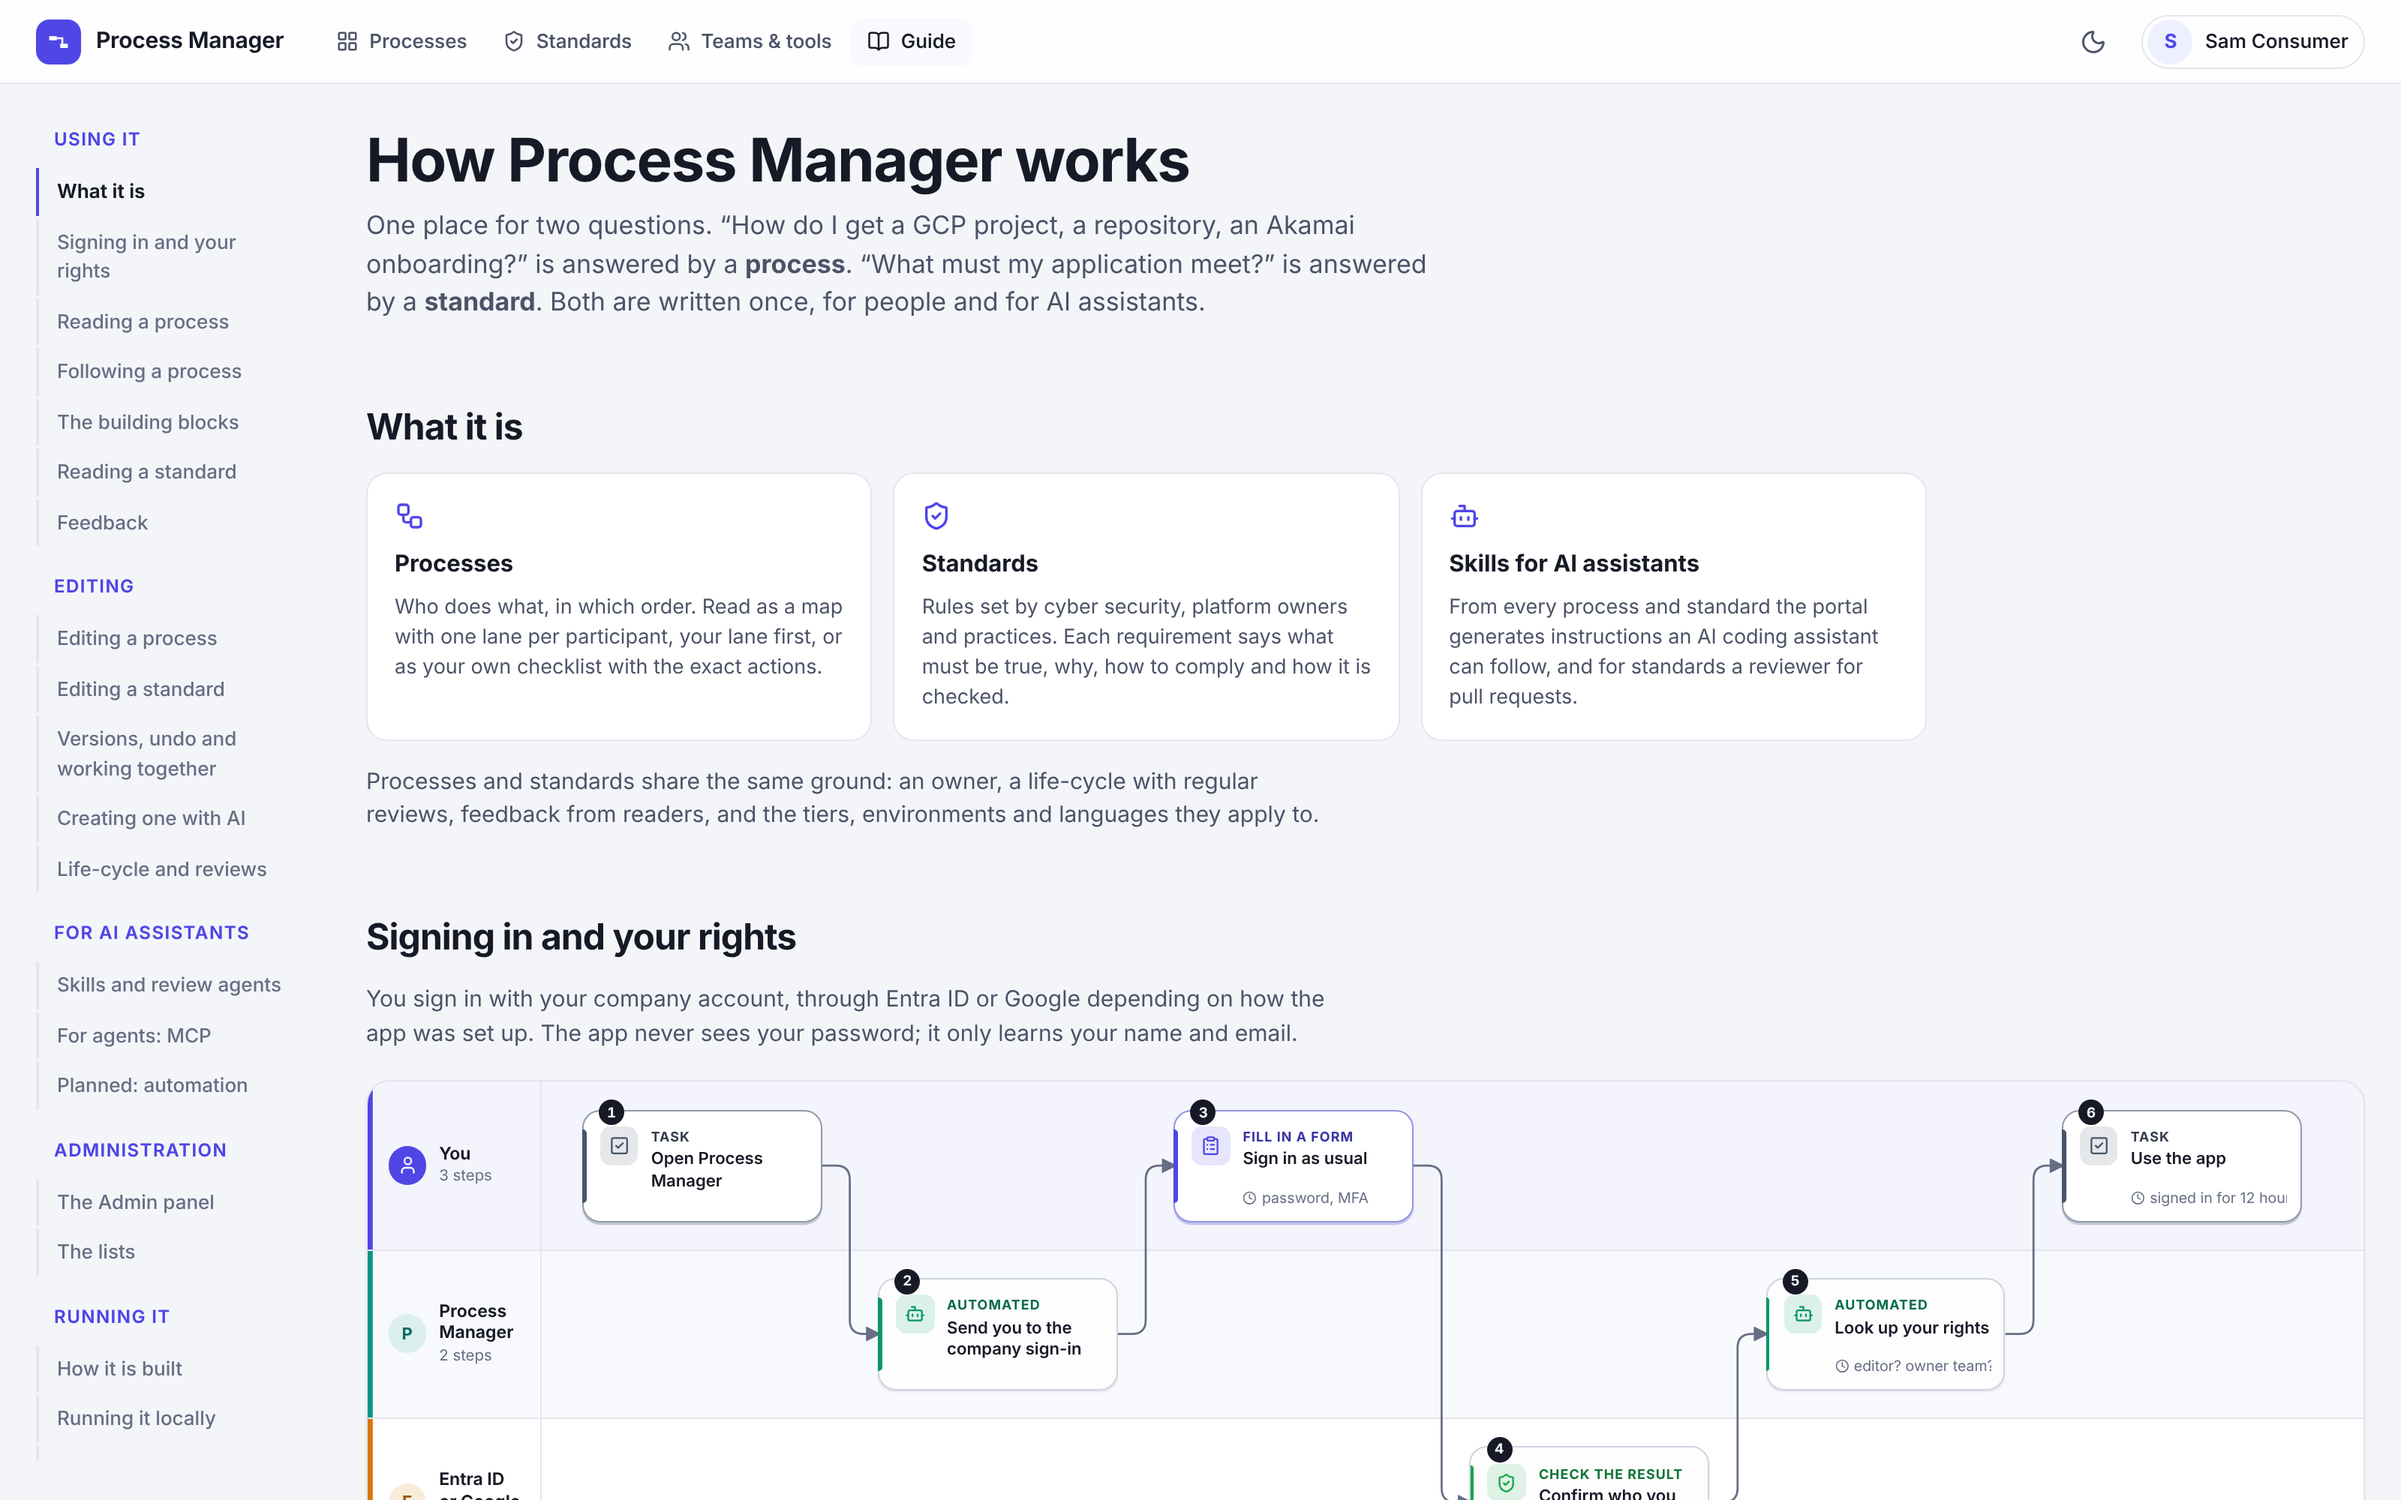
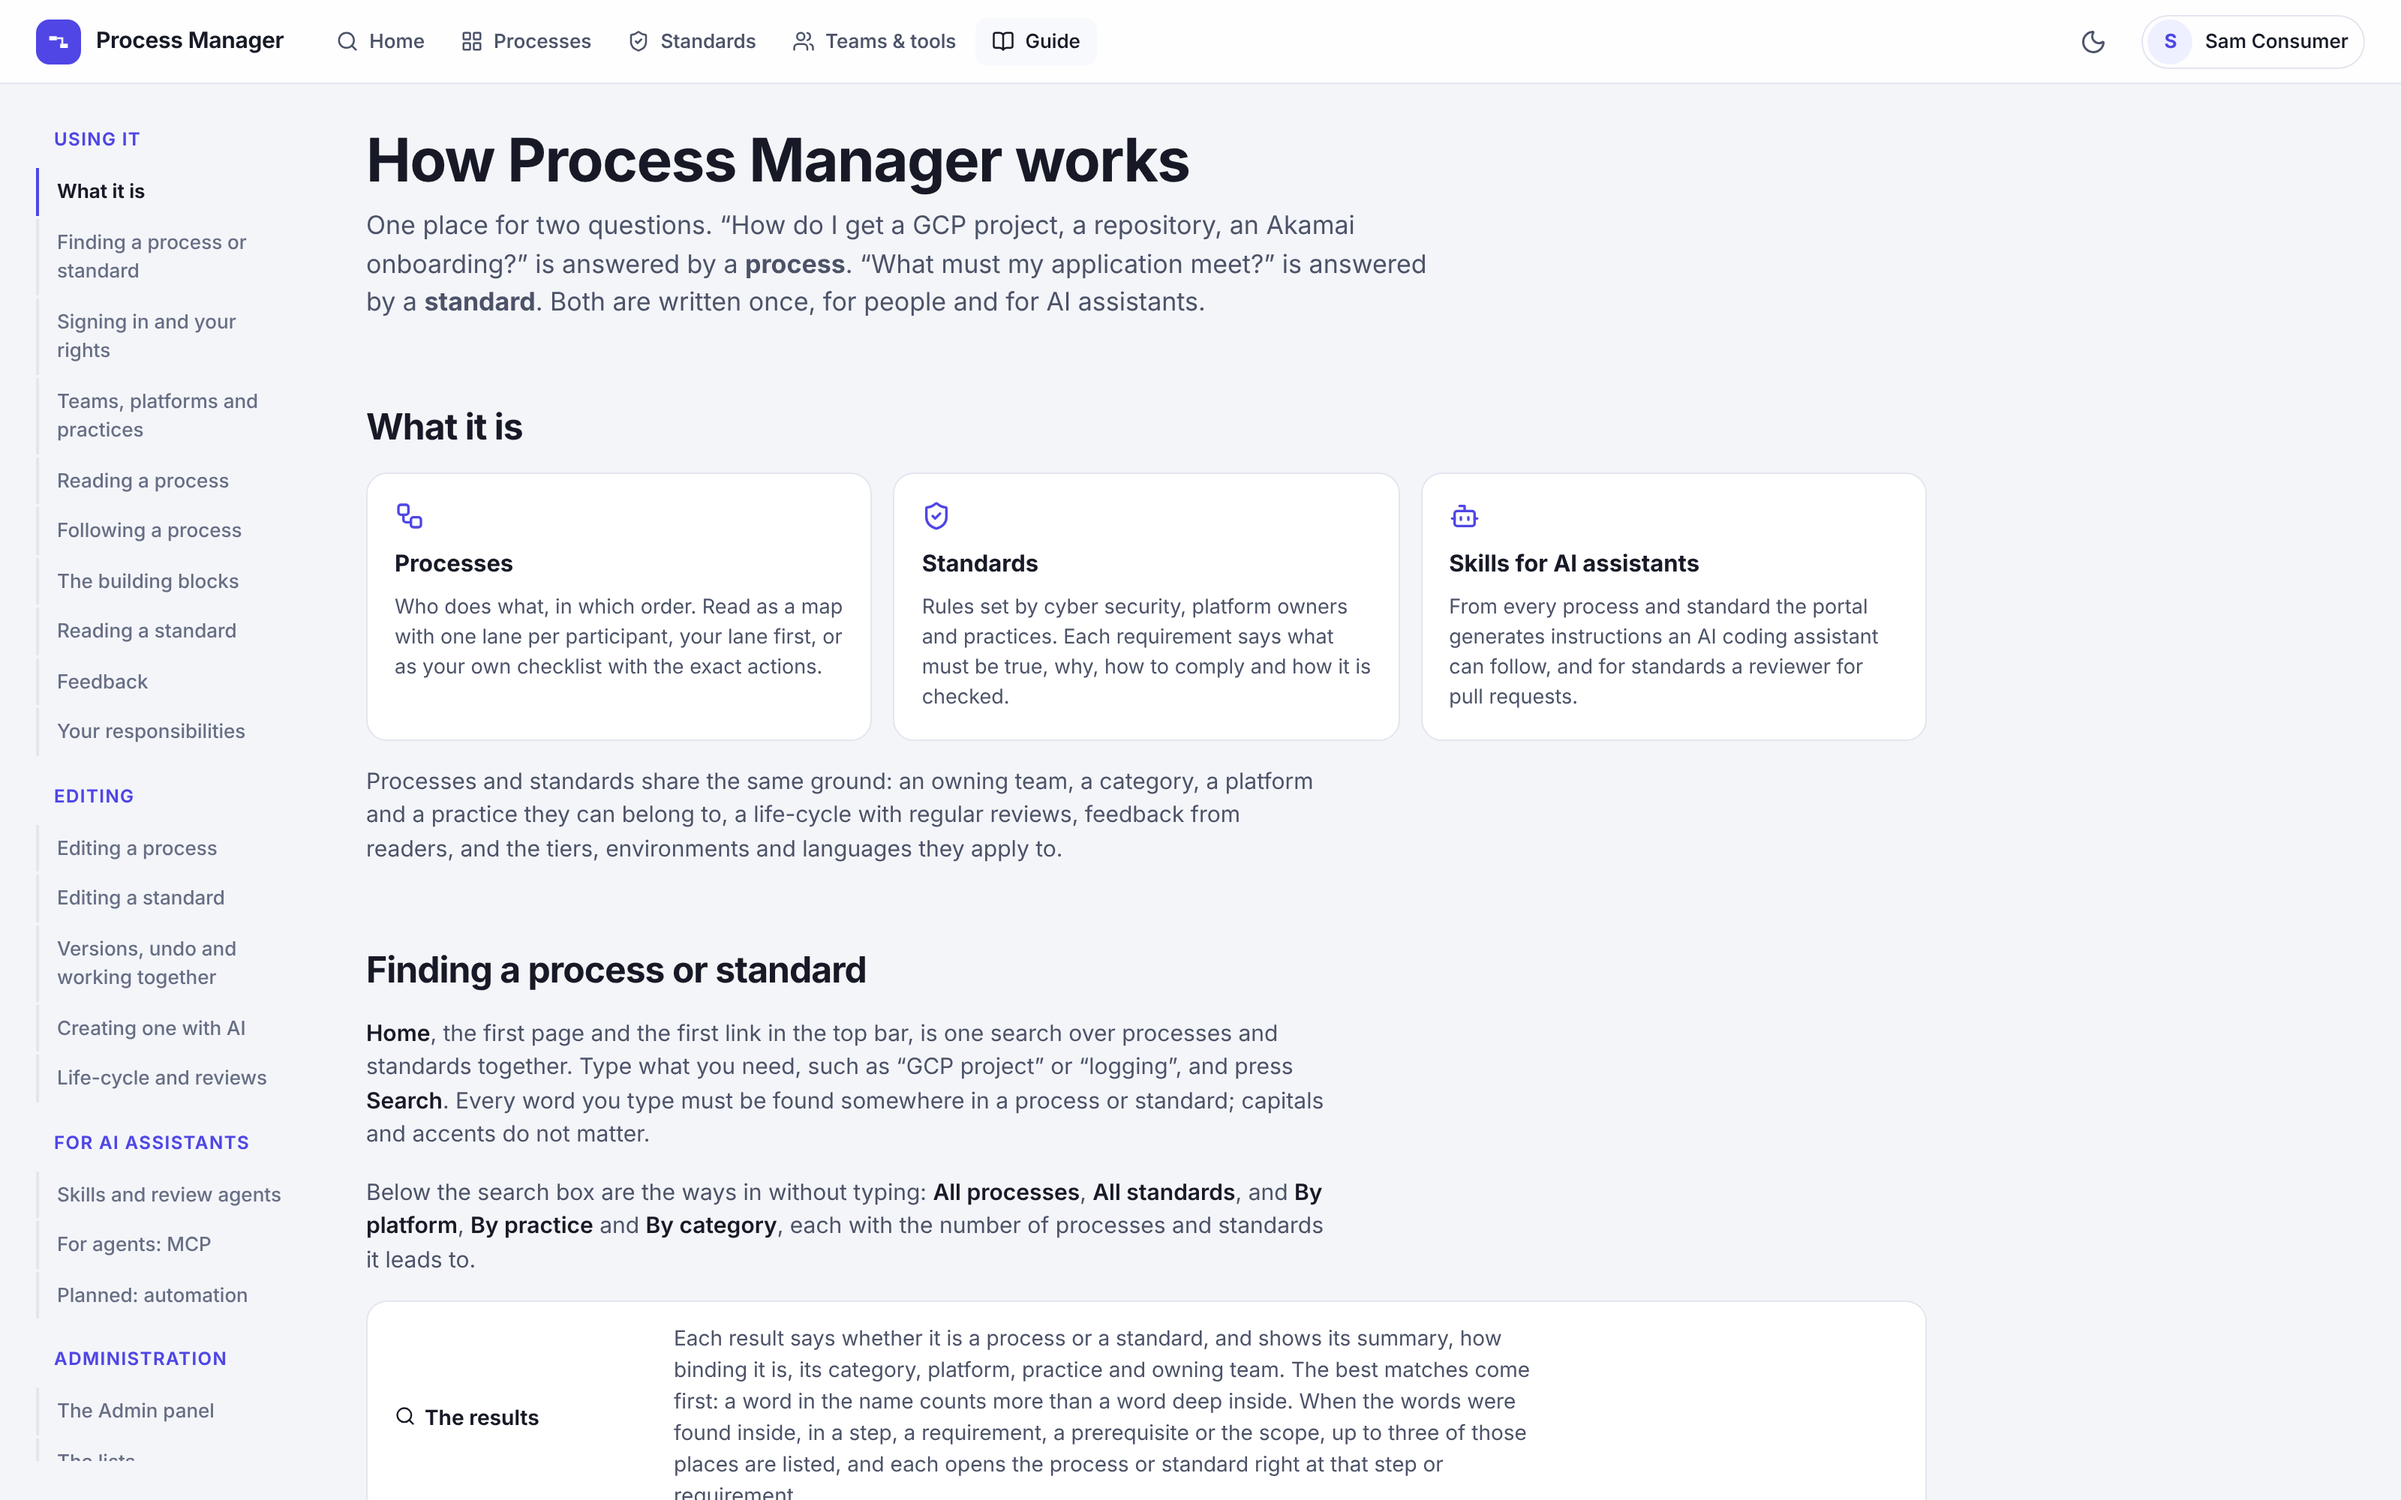
Search on the home page; categories, practices and platforms; platform and practice owners
Home is a search over processes and standards. The results page filters by
type, rigour, category, practice and platform, and its address holds the
whole search. The process library moved to #/processes.

The lists gain practices, platforms and categories, each managed on its own.
A team no longer has a kind. A process or standard has an owning team and
can belong to a category, a practice and a platform; a process says how
binding it is, a standard takes that from its requirements.

Platform owner and practice owner are new roles: an ordinary reader who
holds one may change, create and delete what belongs to that platform or
practice, and may move a document only between platforms or practices they
own. Standards editor always covers all standards. Everyone can see who the
members of a team, platform or practice are on Teams & tools; admins add and
remove them in Admin > Lists.

An older database is converted once at start: unit teams also become
platforms or practices, free-text categories become list entries, stored
versions are adjusted in place, and limited standards editors become
platform or practice owners.

Also: versions from before a deletion are only for admins and editors, a
list entry with members cannot be removed, notices no longer cover the save
bar, the top bar fits at every width.

Guide, README, docs/backend.md, the skills and the screenshots are updated.

Claude-Session: https://claude.ai/code/session_011qCrvi8b2eDbxEg6hLHvxQ

diff --git a/e2e/lists.spec.ts b/e2e/lists.spec.ts
@@ -217,7 +217,7 @@ test("Details: an editor says what a process belongs to and its rigour; readers 
     const modal = page.locator(".modal");
     await expect(modal.getByRole("heading", { name: /What it belongs to/ })).toBeVisible();
     const binding = modal.getByRole("group", { name: "Rigour" });
-    await expect(modal.locator(".field", { has: binding })).toContainText("Rigourhow binding it is");
+    await expect(modal.locator(".field", { has: page.getByRole("group", { name: "Rigour" }) }).locator(".field-label")).toHaveText(/^Rigourhow binding it is/);
     await expect(binding.getByRole("button")).toHaveText(["Not stated", "Mandatory", "Recommended", "Optional"]);
     await expect(binding.getByRole("button", { name: "Not stated" })).toHaveAttribute("aria-pressed", "true");
     await modal.getByLabel(/^Category/).selectOption({ label: "Network" });

diff --git a/e2e/platforms.spec.ts b/e2e/platforms.spec.ts
@@ -108,7 +108,7 @@ test("a platform that is not his stays as it is on a document of his practice", 
   const platform = modal.getByLabel(/^Platform/);
   await expect(platform).toBeDisabled();
   await expect(platform).toHaveValue("github");
-  await expect(modal.locator(".field", { has: platform })).toContainText("Only its owners or an editor can change this");
+  await expect(modal.locator("label.field", { has: page.locator("select:disabled") })).toContainText("PlatformOnly its owners or an editor can change this");
   // the practice is his: he may keep or clear it, but only pick his own
   await expect(modal.getByLabel(/^Practice/)).toBeEnabled();
   await expect(modal.getByLabel(/^Practice/).locator("option")).toHaveText(["None", "Engineering"]);

diff --git a/e2e/admin.spec.ts b/e2e/admin.spec.ts
@@ -91,7 +91,7 @@ test("an admin gives someone a role and it takes effect at once", async ({ page,
   await expect(log.nth(0)).toContainText("Dana Admin removed a role from sam@example.com");
   await expect(log.nth(1)).toContainText("Sam Consumer saved the standard code-review");
   await expect(log.nth(2)).toContainText("Dana Admin gave a role to sam@example.com");
-  await expect(log.nth(2)).toContainText("practice-owner for practice Engineering (engineering)");
+  await expect(log.nth(2)).toContainText("Practice owner for the practice Engineering");
 });
 
 test("mistakes when giving a role are explained", async ({ page }) => {

diff --git a/README.md b/README.md
@@ -9,6 +9,10 @@ The home page is one search over both, with filters by type, rigour, category, p
 
 From both, the portal generates **skills for AI coding assistants** and, for standards, **pull request review agents**, and keeps them up to date as the content changes.
 
+![Home](docs/home.png)
+
+![Search results with filters](docs/search.png)
+
 ![Map view](docs/map.png)
 
 ## Run it locally
@@ -96,6 +100,8 @@ The members of a team, platform or practice are the people with Owner, Platform 
 The first admins are named in the server setting `PM_ADMINS`.
 
 ![Admin panel](docs/admin.png)
+
+![A platform and its members](docs/platforms.png)
 
 ## Tests
 
